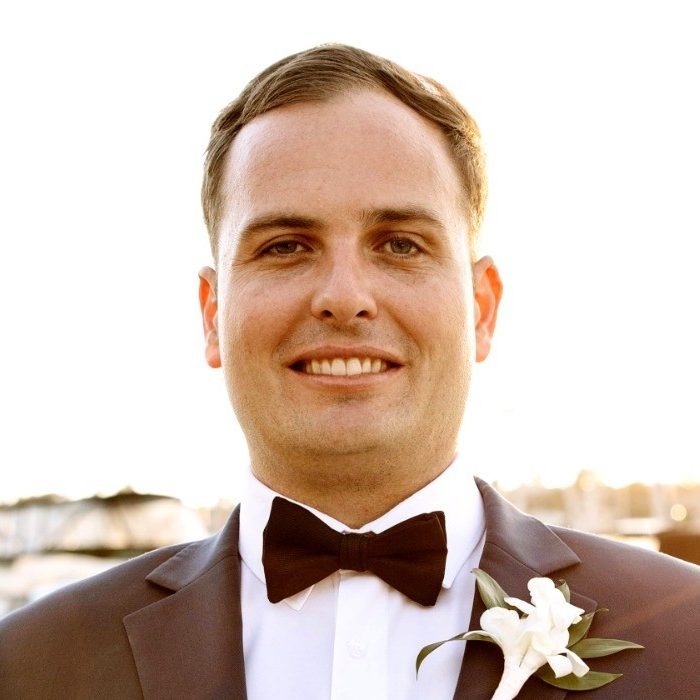
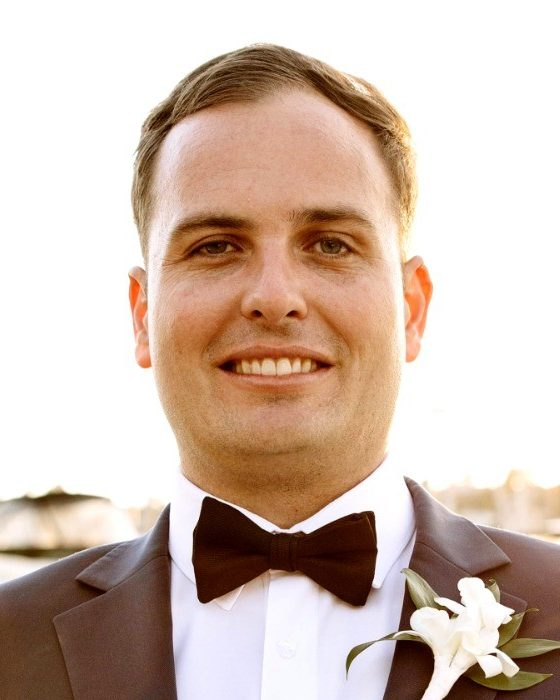
Move the portrait beside the bio
The name stands alone above the water. About shows a rounded 4:5 photo in the open column.

Changed region(s): [[0.0, 0.06, 1.0, 1.0], [0.1821, 0.93, 0.2125, 0.99], [0.4554, 0.9, 0.4857, 0.93]]

diff --git a/app/globals.css b/app/globals.css
@@ -52,6 +52,7 @@
   --s-frond: #3f6f58;
   --s-roof: #c8704f;
   --s-wall: #fbf3ea;
+  --card-radius: 20px;
   color-scheme: light;
 }
 
@@ -473,30 +474,13 @@ html:not([data-theme]) .show-in-sunset {
   margin-bottom: 28px;
 }
 
-.hero-id {
-  display: flex;
-  align-items: center;
-  justify-content: flex-start;
-  gap: 16px;
-  margin: 0 0 10px;
-}
-
 .hero h1 {
-  margin: 0;
+  margin: 0 0 10px;
   font-size: clamp(36px, 10vw, 56px);
   font-weight: 700;
   line-height: 1.08;
   letter-spacing: -0.025em;
   color: var(--ocean-deep);
-}
-
-.hero-photo {
-  width: 72px;
-  height: 72px;
-  flex: none;
-  border-radius: 50%;
-  border: 1px solid var(--line);
-  object-fit: cover;
 }
 
 .role {
@@ -543,7 +527,7 @@ html:not([data-theme]) .show-in-sunset {
   position: relative;
   isolation: isolate;
   overflow: hidden;
-  border-radius: 20px;
+  border-radius: var(--card-radius);
   border: 1px solid var(--line);
   background: var(--card);
   box-shadow: 0 16px 40px rgba(0, 0, 0, 0.08);
@@ -790,11 +774,45 @@ html[data-beach="shipwrecks"] .beach-seg [data-b="shipwrecks"] {
   color: var(--ocean-deep);
 }
 
+.about {
+  display: grid;
+  justify-items: start;
+  gap: 14px;
+}
+
+.about-main {
+  display: contents;
+}
+
+.about h2 {
+  margin: 0;
+  order: 1;
+}
+
 .about-copy {
+  order: 3;
   margin: 0;
   color: var(--muted);
   font-size: 15px;
   line-height: 1.7;
+}
+
+.about .xlabel {
+  order: 4;
+}
+
+.about .tags {
+  order: 5;
+}
+
+.about-photo {
+  width: 168px;
+  height: auto;
+  aspect-ratio: 4 / 5;
+  order: 2;
+  border-radius: var(--card-radius);
+  border: 1px solid var(--line);
+  object-fit: cover;
 }
 
 .xlabel {
@@ -1004,9 +1022,26 @@ html[data-beach="shipwrecks"] .beach-seg [data-b="shipwrecks"] {
     align-items: center;
   }
 
-  .hero-photo {
-    width: 88px;
-    height: 88px;
+  .about {
+    max-width: none;
+    grid-template-columns: 1fr 1.05fr;
+    column-gap: 36px;
+    align-items: start;
+  }
+
+  .about-main {
+    display: block;
+    grid-column: 1;
+  }
+
+  .about h2 {
+    margin: 0 0 14px;
+  }
+
+  .about-photo {
+    order: 0;
+    grid-column: 2;
+    width: 240px;
   }
 
   .water-poster,

diff --git a/app/components/About.tsx b/app/components/About.tsx
@@ -1,17 +1,28 @@
+import Image from "next/image";
 import { site } from "@/content/site";
 import { skills } from "@/content/skills";
 
 export function About() {
   return (
-    <section className="sec" id="about" aria-labelledby="about-heading">
-      <h2 id="about-heading">About</h2>
-      <p className="about-copy">{site.about}</p>
-      <p className="xlabel">Skills</p>
-      <ul className="tags" aria-label="Skills">
-        {skills.map((skill) => (
-          <li key={skill}>{skill}</li>
-        ))}
-      </ul>
+    <section className="sec about" id="about" aria-labelledby="about-heading">
+      <div className="about-main">
+        <h2 id="about-heading">About</h2>
+        <p className="about-copy">{site.about}</p>
+        <p className="xlabel">Skills</p>
+        <ul className="tags" aria-label="Skills">
+          {skills.map((skill) => (
+            <li key={skill}>{skill}</li>
+          ))}
+        </ul>
+      </div>
+      <Image
+        src={site.photo.src}
+        alt={site.photo.alt}
+        width={site.photo.width}
+        height={site.photo.height}
+        sizes="(min-width: 900px) 240px, 168px"
+        className="about-photo"
+      />
     </section>
   );
 }

diff --git a/app/components/Hero.tsx b/app/components/Hero.tsx
@@ -1,4 +1,3 @@
-import Image from "next/image";
 import { site } from "@/content/site";
 import { ResumeLink } from "./ResumeLink";
 import { BeachCaption } from "./water/BeachCaption";
@@ -12,18 +11,7 @@ export function Hero() {
   return (
     <section className="hero" aria-labelledby="home-title">
       <div>
-        <div className="hero-id">
-          <h1 id="home-title">{site.name}</h1>
-          <Image
-            src={site.photo.src}
-            alt={site.photo.alt}
-            width={site.photo.width}
-            height={site.photo.height}
-            sizes="(min-width: 900px) 88px, 72px"
-            className="hero-photo"
-            priority
-          />
-        </div>
+        <h1 id="home-title">{site.name}</h1>
         <p className="role">{site.role}</p>
         <p className="lede">{site.summary}</p>
         <div className="text-links">

diff --git a/content/site.ts b/content/site.ts
@@ -21,8 +21,8 @@ export const site = {
   photo: {
     src: "/headshot.jpg",
     alt: "Max McGee",
-    width: 88,
-    height: 88,
+    width: 240,
+    height: 300,
   },
   /**
    * Placeholder. Point href at a file in /public (for example "/resume.pdf")
